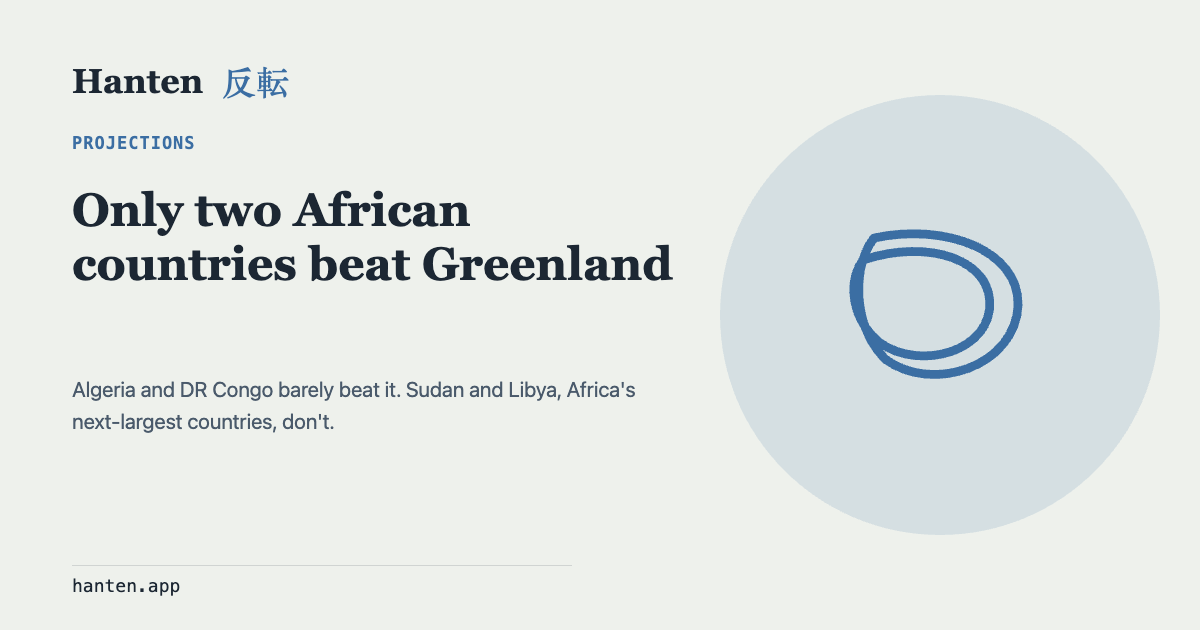
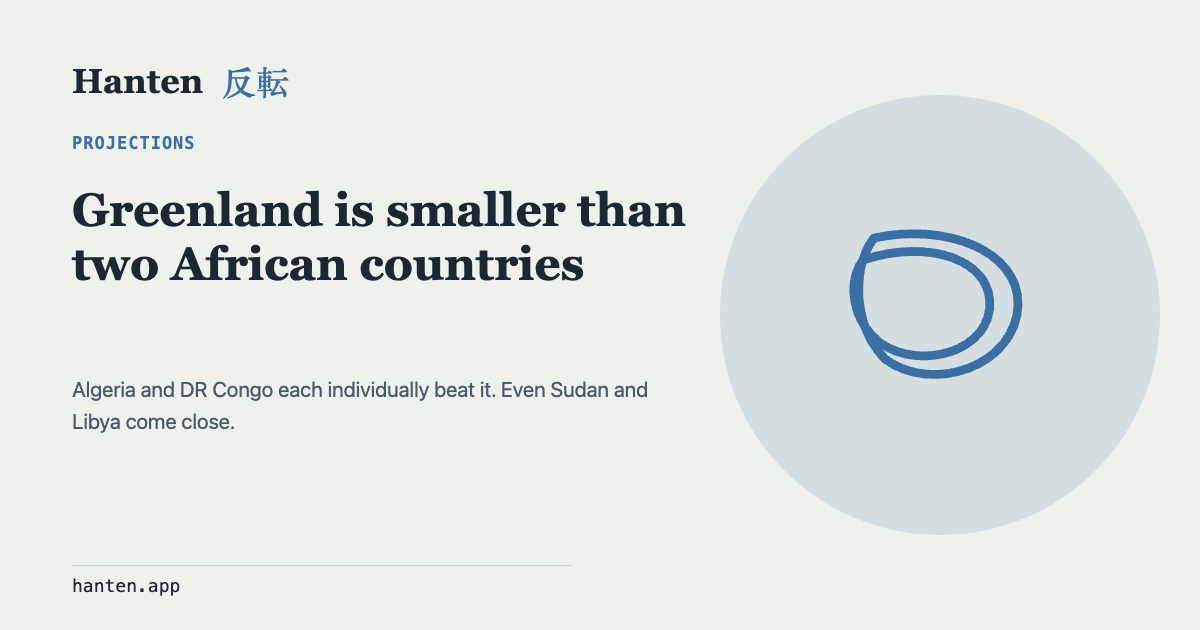
Reframe africa-vs-greenland.html around Greenland's smallness
Retitled and rewrote the copy to lead with how small Greenland
actually is next to individual African countries — Algeria and DR
Congo each individually beat it, and even Sudan and Libya come
close — rather than leading with which countries are "bigger."
Regenerated the OG image to match.

Changed region(s): [[0.0617, 0.3016, 0.5858, 0.4524], [0.2158, 0.6032, 0.555, 0.6333], [0.0617, 0.6635, 0.2775, 0.6937]]

diff --git a/africa-vs-greenland.html b/africa-vs-greenland.html
@@ -3,18 +3,18 @@
 <head>
 <meta charset="utf-8">
 <meta name="viewport" content="width=device-width, initial-scale=1">
-<title>Hanten — Only Two African Countries Beat Greenland</title>
-<meta name="description" content="Algeria and DR Congo are the only African countries with more land area than Greenland — and the third- and fourth-largest, Sudan and Libya, fall short.">
+<title>Hanten — Greenland Is Smaller Than Two African Countries</title>
+<meta name="description" content="Algeria and DR Congo are each individually bigger than all of Greenland — and Greenland is only barely larger than Sudan and Libya, the next two biggest.">
 <meta property="og:type" content="website">
 <meta property="og:url" content="https://hanten.app/africa-vs-greenland.html">
-<meta property="og:title" content="Hanten — Only two African countries beat Greenland">
-<meta property="og:description" content="Algeria and DR Congo are the only African countries with more land area than Greenland — and the third- and fourth-largest, Sudan and Libya, fall short.">
+<meta property="og:title" content="Hanten — Greenland is smaller than two African countries">
+<meta property="og:description" content="Algeria and DR Congo are each individually bigger than all of Greenland — and Greenland is only barely larger than Sudan and Libya, the next two biggest.">
 <meta property="og:image" content="https://hanten.app/data/og/africa-vs-greenland.png">
 <meta property="og:image:width" content="1200">
 <meta property="og:image:height" content="630">
 <meta name="twitter:card" content="summary_large_image">
-<meta name="twitter:title" content="Hanten — Only two African countries beat Greenland">
-<meta name="twitter:description" content="Algeria and DR Congo are the only African countries with more land area than Greenland — and the third- and fourth-largest, Sudan and Libya, fall short.">
+<meta name="twitter:title" content="Hanten — Greenland is smaller than two African countries">
+<meta name="twitter:description" content="Algeria and DR Congo are each individually bigger than all of Greenland — and Greenland is only barely larger than Sudan and Libya, the next two biggest.">
 <meta name="twitter:image" content="https://hanten.app/data/og/africa-vs-greenland.png">
 <style>
   :root {
@@ -129,8 +129,8 @@
 </header>
 
 <main>
-  <h1>Only two African countries are bigger than Greenland</h1>
-  <p class="sub">Greenland looks continent-sized on the Mercator map. At true, equal-area scale, only Algeria and DR Congo actually beat it — and the next two largest African countries, Sudan and Libya, fall short.</p>
+  <h1>Greenland isn't just not the size of Africa — it's smaller than two African countries</h1>
+  <p class="sub">Algeria and DR Congo are each individually bigger than all of Greenland. And its lead over the next two largest African countries, Sudan and Libya, is thinner than Greenland's reputation would suggest.</p>
   <div id="save-image-slot"></div>
 
   <div class="panels" id="panels"></div>
@@ -140,8 +140,8 @@
   </table>
 
   <div class="caption">
-    <p><strong>Algeria and DR Congo barely clear the bar.</strong> Both are within about 10% of Greenland's true land area — drawn at equal-area scale, each nearly traces Greenland's own outline. Sudan and Libya, the third- and fourth-largest countries on the continent, fall meaningfully short: about 14% and 19% smaller.</p>
-    <p>This is the flip side of the <a href="africa-greenlands.html">14-Greenlands map</a>: Greenland only looks continent-sized because of the Mercator projection. At true scale it's closer in size to one large country than to Africa itself — it just happens to be a country-sized landmass that almost no African country can beat.</p>
+    <p><strong>Algeria and DR Congo aren't just bigger than Greenland — each one alone has more land area than the entire island.</strong> Greenland is famous for looking huge on the map, but it doesn't hold up against two individual African countries, let alone the whole continent. And its lead over the next two largest African countries isn't much either: Greenland is only about 16% bigger than Sudan and 23% bigger than Libya.</p>
+    <p>This is the flip side of the <a href="africa-greenlands.html">14-Greenlands map</a>: the same Mercator distortion that inflates Greenland to look Africa-sized is why it feels bigger than it really is next to individual African countries too.</p>
     <p class="source">Areas: CIA World Factbook. Country shapes: Natural Earth. Each shape above uses its own equal-area projection centered on itself, all at identical scale — the same method used across our <a href="true-size-africa.html">True Size of Africa</a> maps.</p>
   </div>
 </main>
@@ -225,7 +225,7 @@
 <script src="https://cdn.jsdelivr.net/npm/html2canvas@1.4.1/dist/html2canvas.min.js"></script>
 <script src="data/save-image.js"></script>
 <script>
-  HantenSaveImage.init({ target: "#panels", title: "Only two African countries are bigger than Greenland", filename: "hanten-africa-vs-greenland.png" });
+  HantenSaveImage.init({ target: "#panels", title: "Greenland isn't just not the size of Africa — it's smaller than two African countries", filename: "hanten-africa-vs-greenland.png" });
 </script>
 
 <script defer src="/_vercel/insights/script.js"></script>

diff --git a/index.html b/index.html
@@ -501,8 +501,8 @@
         <path d="M6 10 C18 6,30 10,29 19 C28 27,16 30,9 25 C4 21,3 14,6 10 Z"/>
       </svg></div>
       <div class="tag">Projections</div>
-      <h2>Only two African countries are bigger than Greenland</h2>
-      <p>Algeria and DR Congo barely beat it. Sudan and Libya, Africa's next-largest countries, don't.</p>
+      <h2>Greenland isn't just not the size of Africa — it's smaller than two African countries</h2>
+      <p>Algeria and DR Congo each individually beat it. Even Sudan and Libya come close.</p>
     </a>
     <a class="card" data-cat="distances" href="continental-us-greenlands.html">
       <div class="card-icon"><svg viewBox="0 0 40 40" fill="none" stroke="currentColor" stroke-width="1.6" stroke-linecap="round" stroke-linejoin="round">